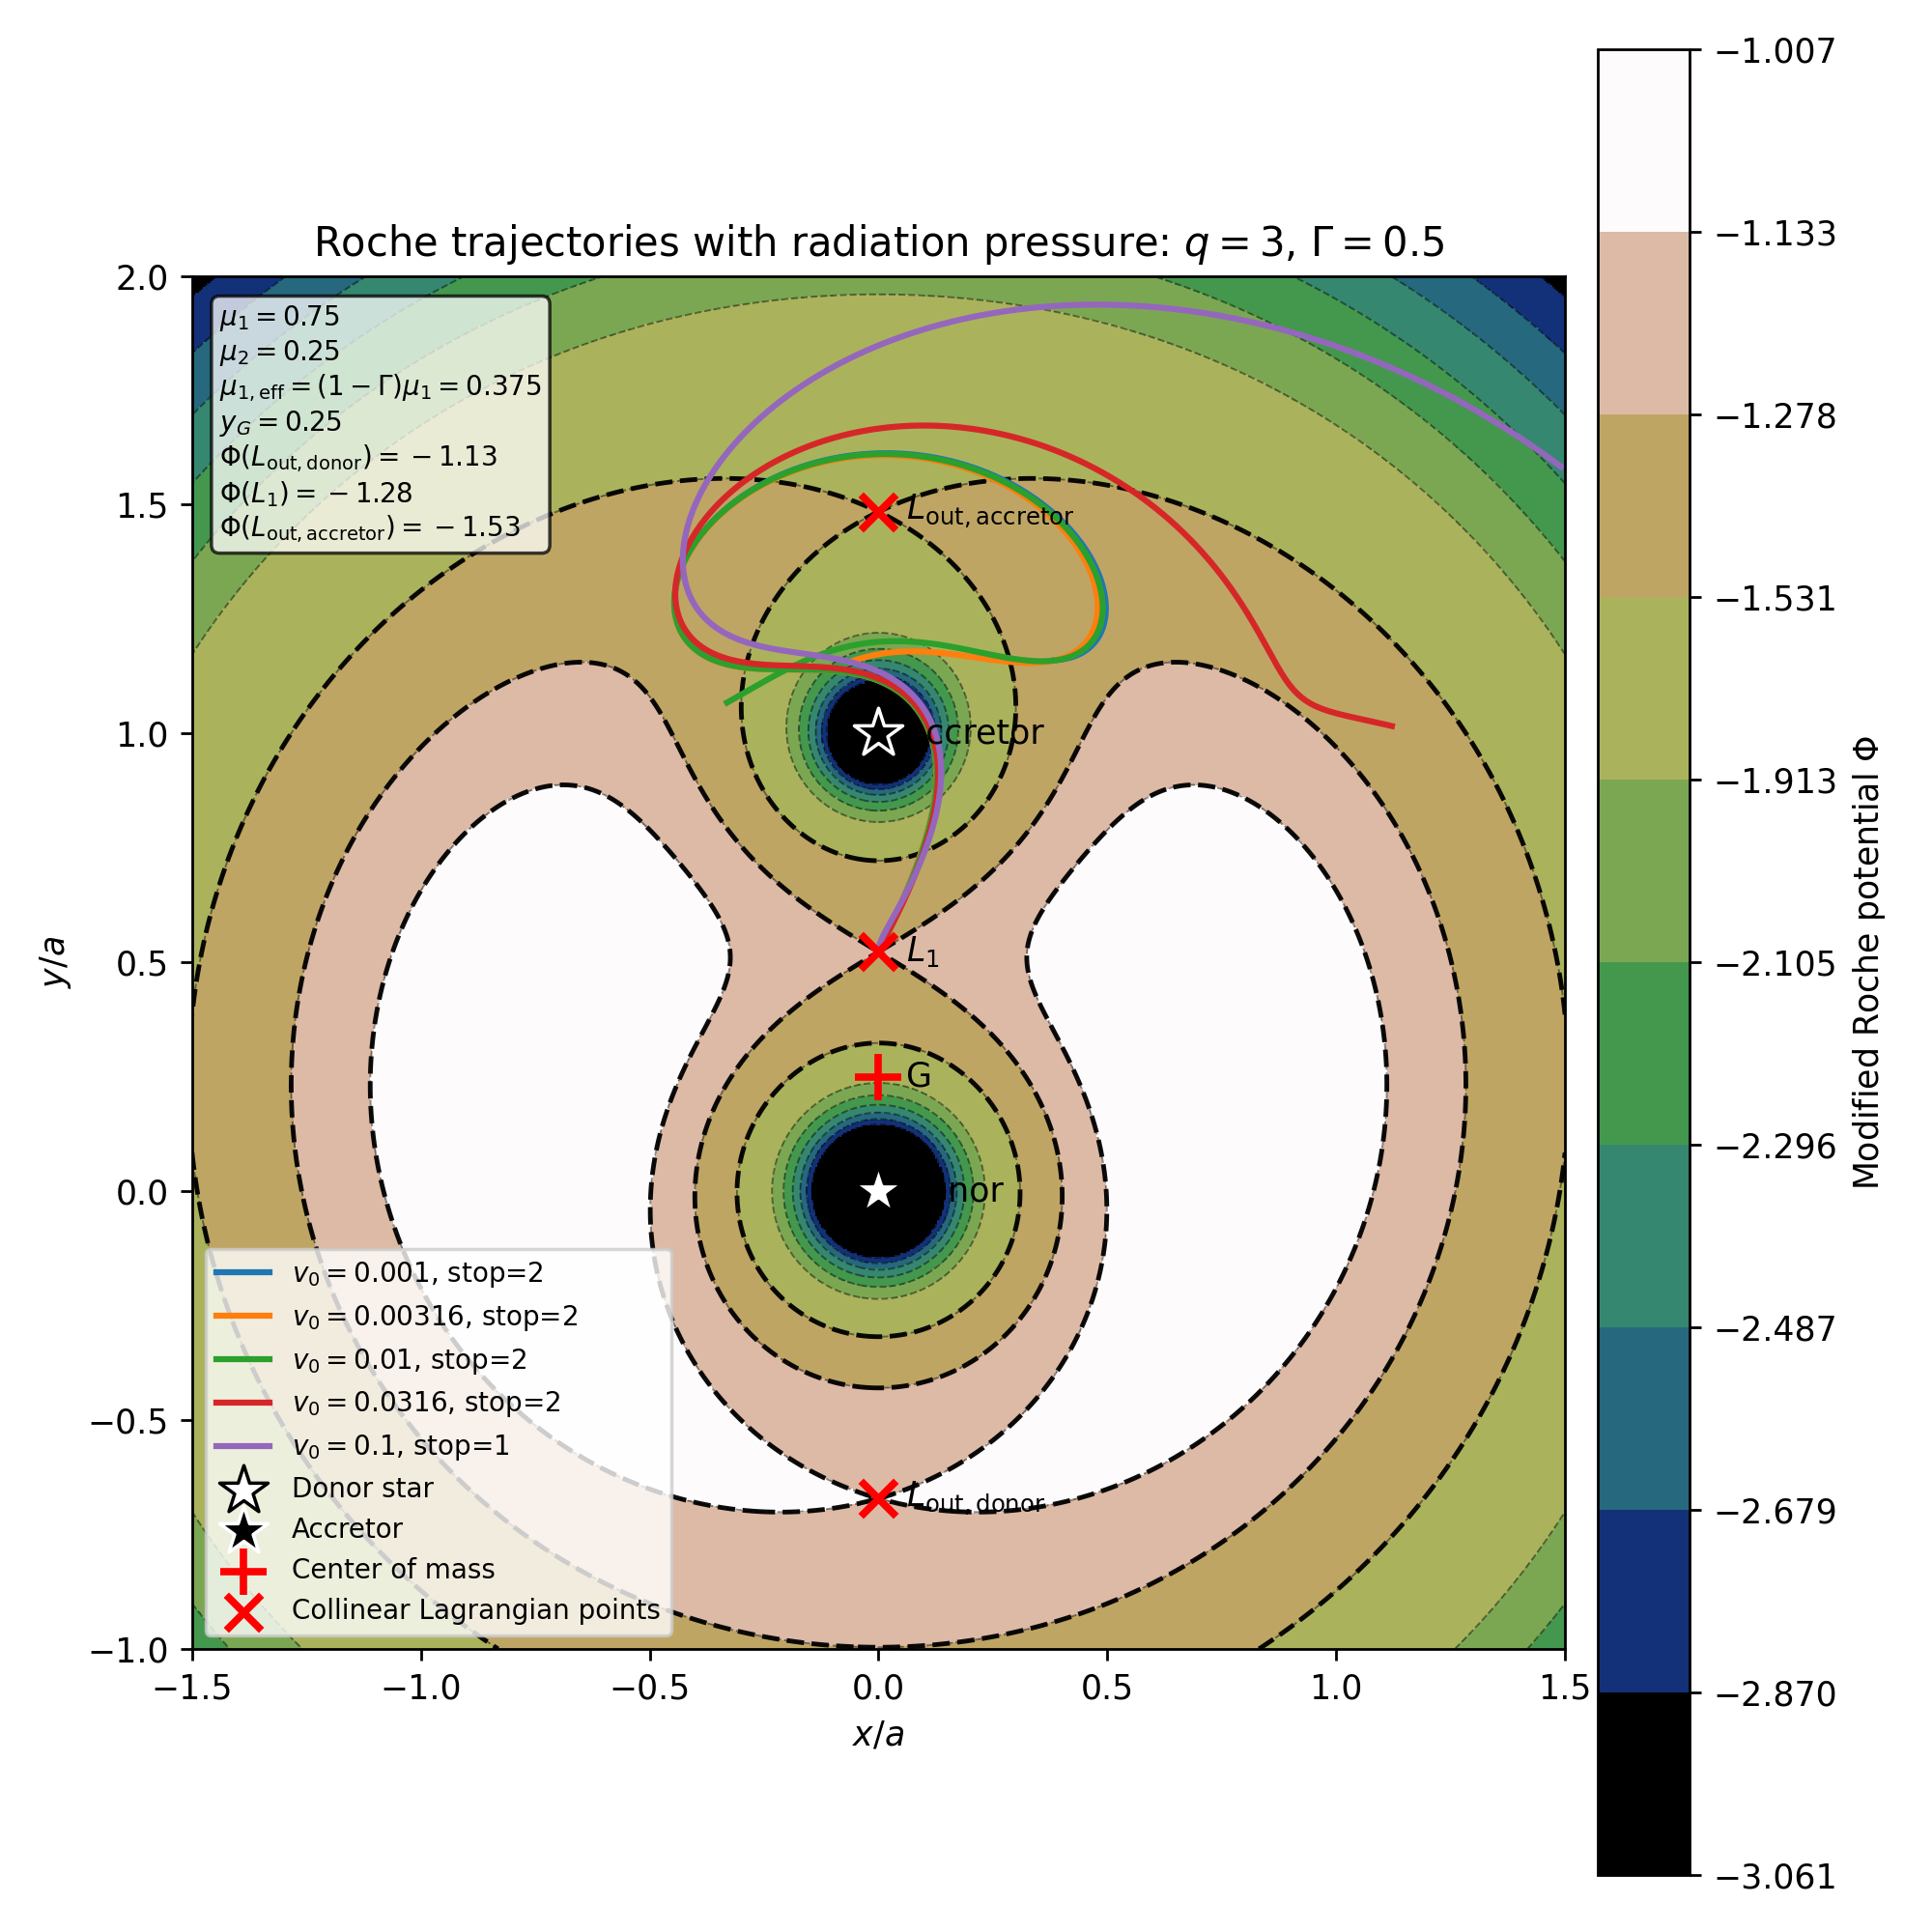
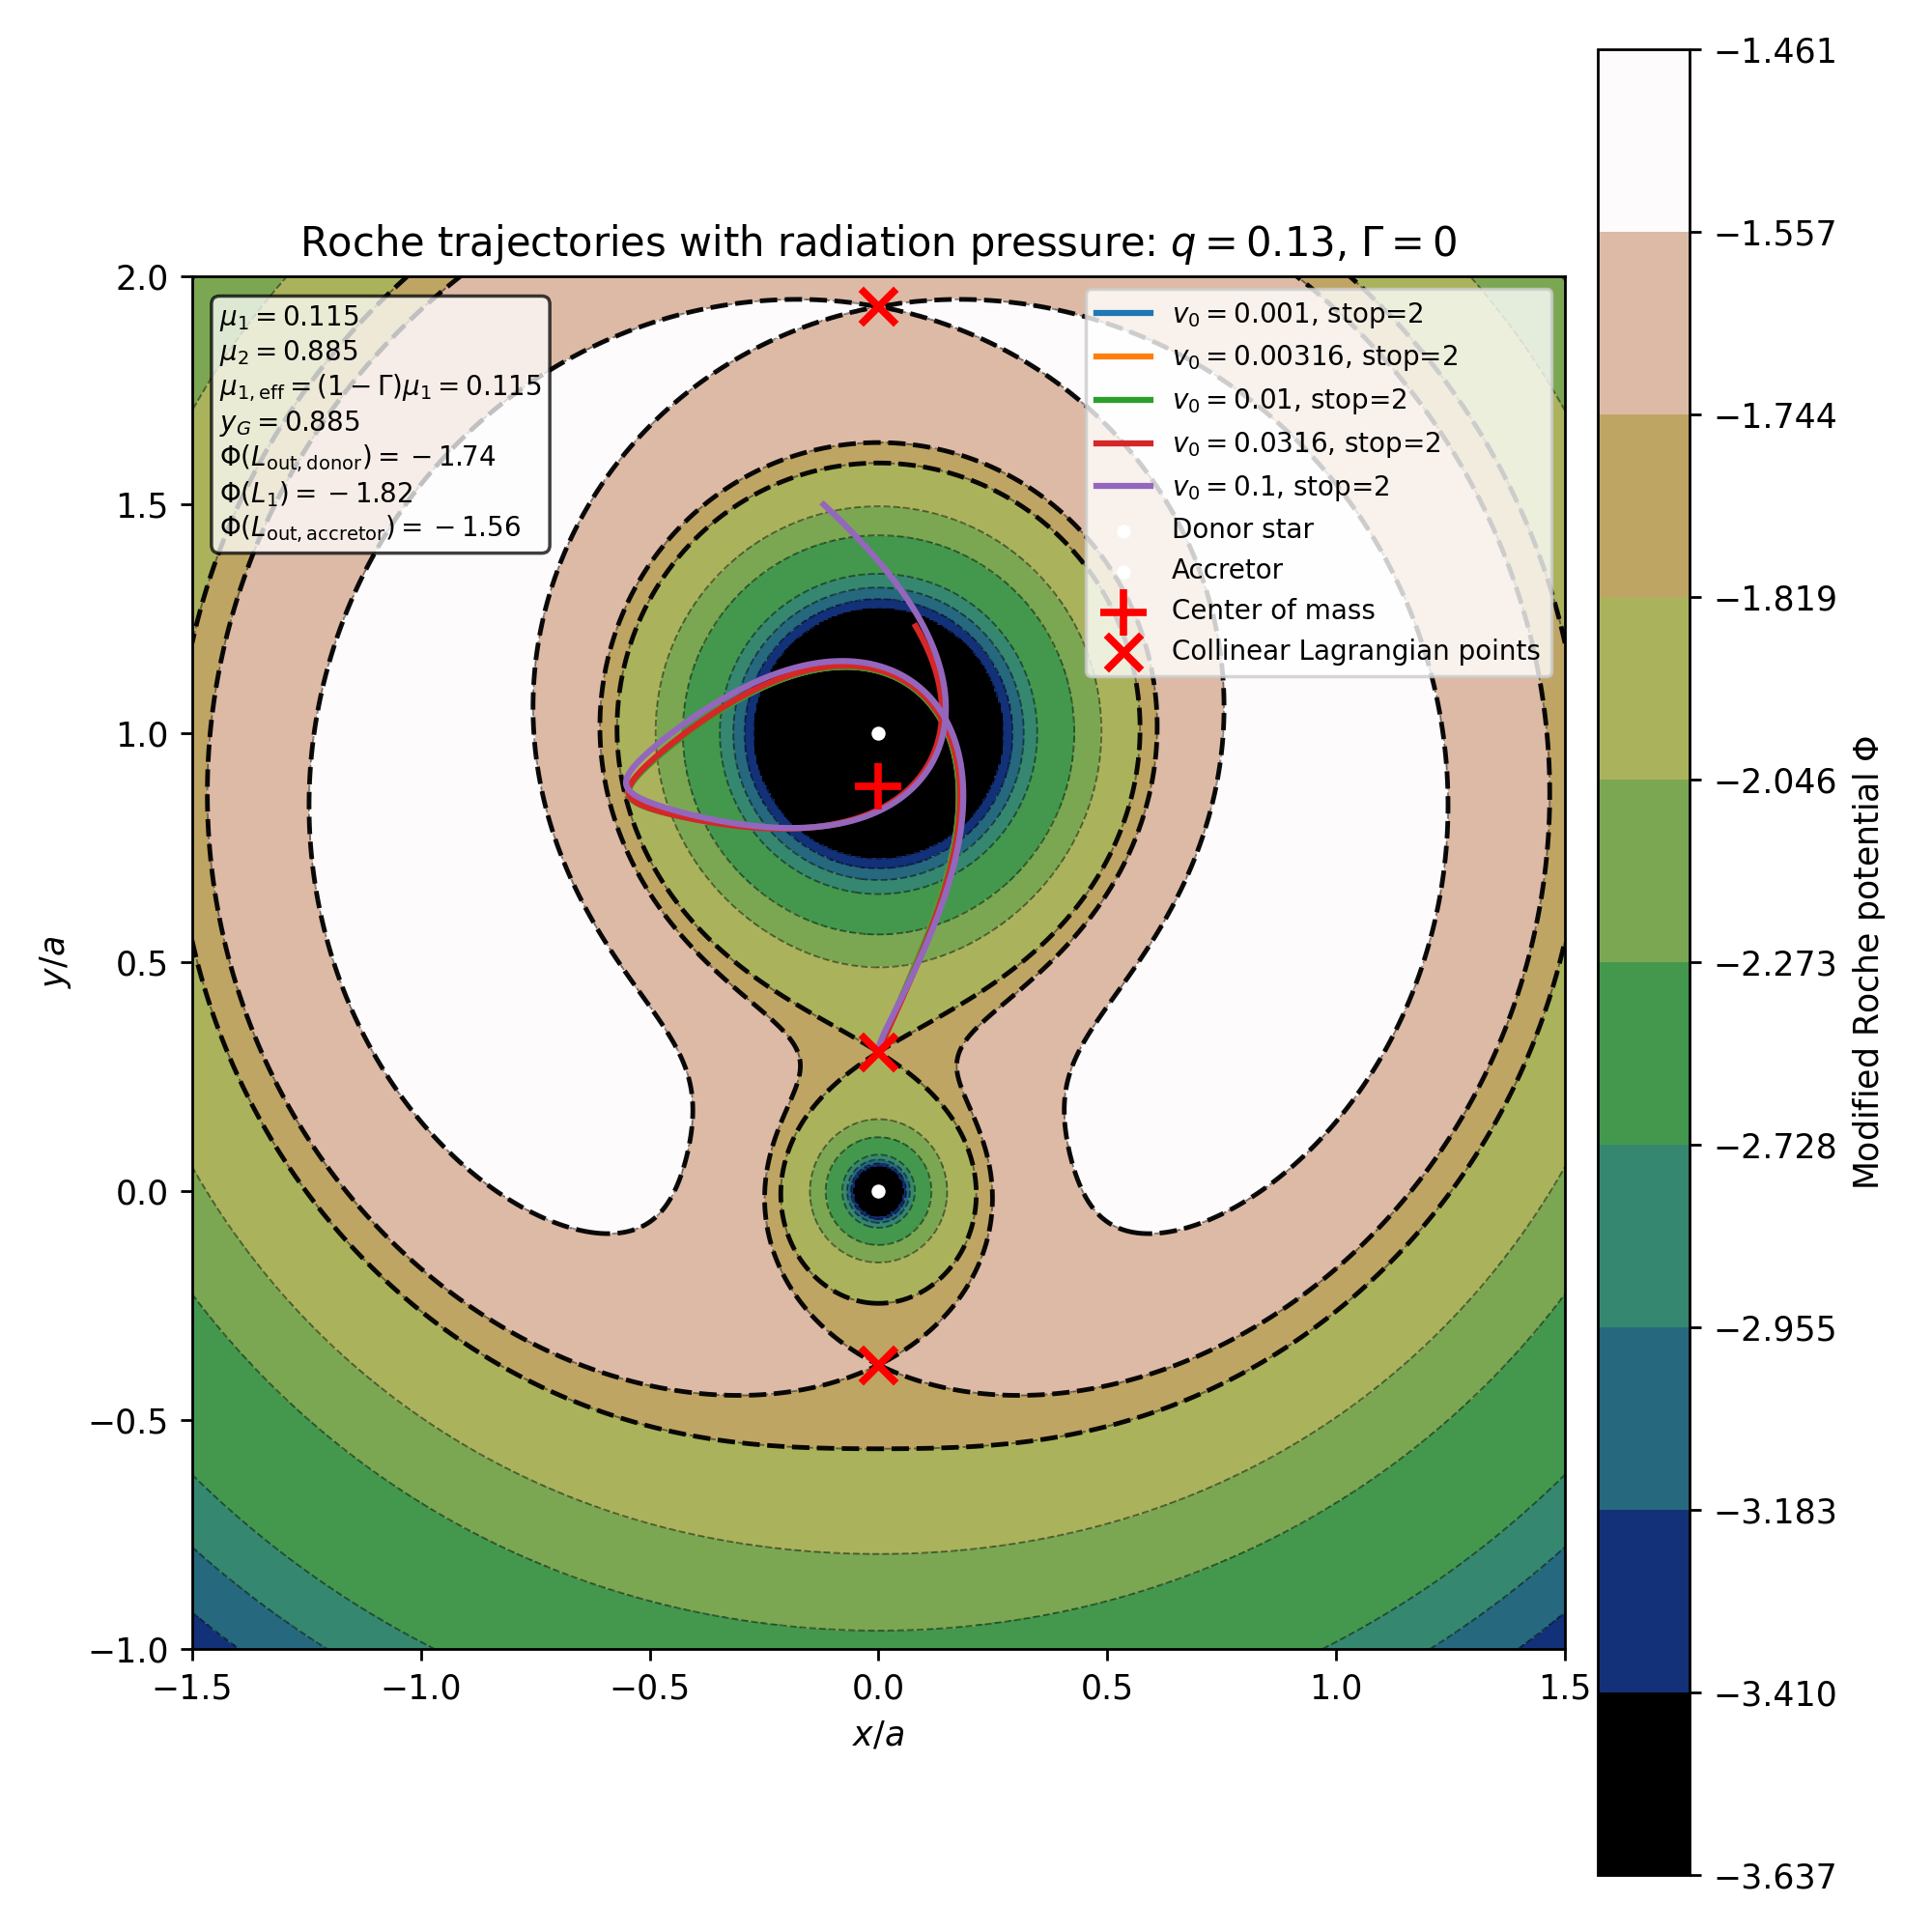
slight improvements

diff --git a/plot.py b/plot.py
@@ -1,6 +1,8 @@
 #!/usr/bin/env python3
 # python plot.py roche_summary.csv --xlim -1.5 1.5 --ylim -1.0 2.0 --potential-segments 10 --cmap gist_earth -o roche_trajectories_segmented.png
 
+from __future__ import annotations
+
 import argparse
 from pathlib import Path
 
@@ -407,10 +409,9 @@ def plot_roche_trajectories(
     ax.scatter(
         [0.0],
         [0.0],
-        marker="*",
-        s=230,
+        marker="o",
+        s=10,
         color="white",
-        edgecolor="black",
         linewidth=1.0,
         label="Donor star",
         zorder=10,
@@ -419,10 +420,9 @@ def plot_roche_trajectories(
     ax.scatter(
         [0.0],
         [1.0],
-        marker="*",
-        s=230,
-        color="black",
-        edgecolor="white",
+        marker="o",
+        s=10,
+        color="white",
         linewidth=1.0,
         label="Accretor",
         zorder=10,
@@ -447,19 +447,19 @@ def plot_roche_trajectories(
         s=110,
         color="red",
         linewidths=2.2,
-        label="Collinear Lagrangian points",
+        label="Lagrangian points",
         zorder=10,
     )
 
     # Labels.
     x_label_offset = 0.02 * (xlim[1] - xlim[0])
 
-    ax.text(x_label_offset, L_outer_donor, r"$L_{\rm out,donor}$", va="center")
-    ax.text(x_label_offset, L1, r"$L_1$", va="center")
-    ax.text(x_label_offset, L_outer_accretor, r"$L_{\rm out,accretor}$", va="center")
-    ax.text(x_label_offset, 0.0, "donor", va="center")
-    ax.text(x_label_offset, 1.0, "accretor", va="center")
-    ax.text(x_label_offset, yG, "G", va="center")
+    # ax.text(x_label_offset, L_outer_donor, r"$L_{\rm out,donor}$", va="center")
+    # ax.text(x_label_offset, L1, r"$L_1$", va="center")
+    # ax.text(x_label_offset, L_outer_accretor, r"$L_{\rm out,accretor}$", va="center")
+    # ax.text(x_label_offset, 0.0, "donor", va="center")
+    # ax.text(x_label_offset, 1.0, "accretor", va="center")
+    # ax.text(x_label_offset, yG, "G", va="center")
 
     ax.set_xlabel(r"$x/a$")
     ax.set_ylabel(r"$y/a$")